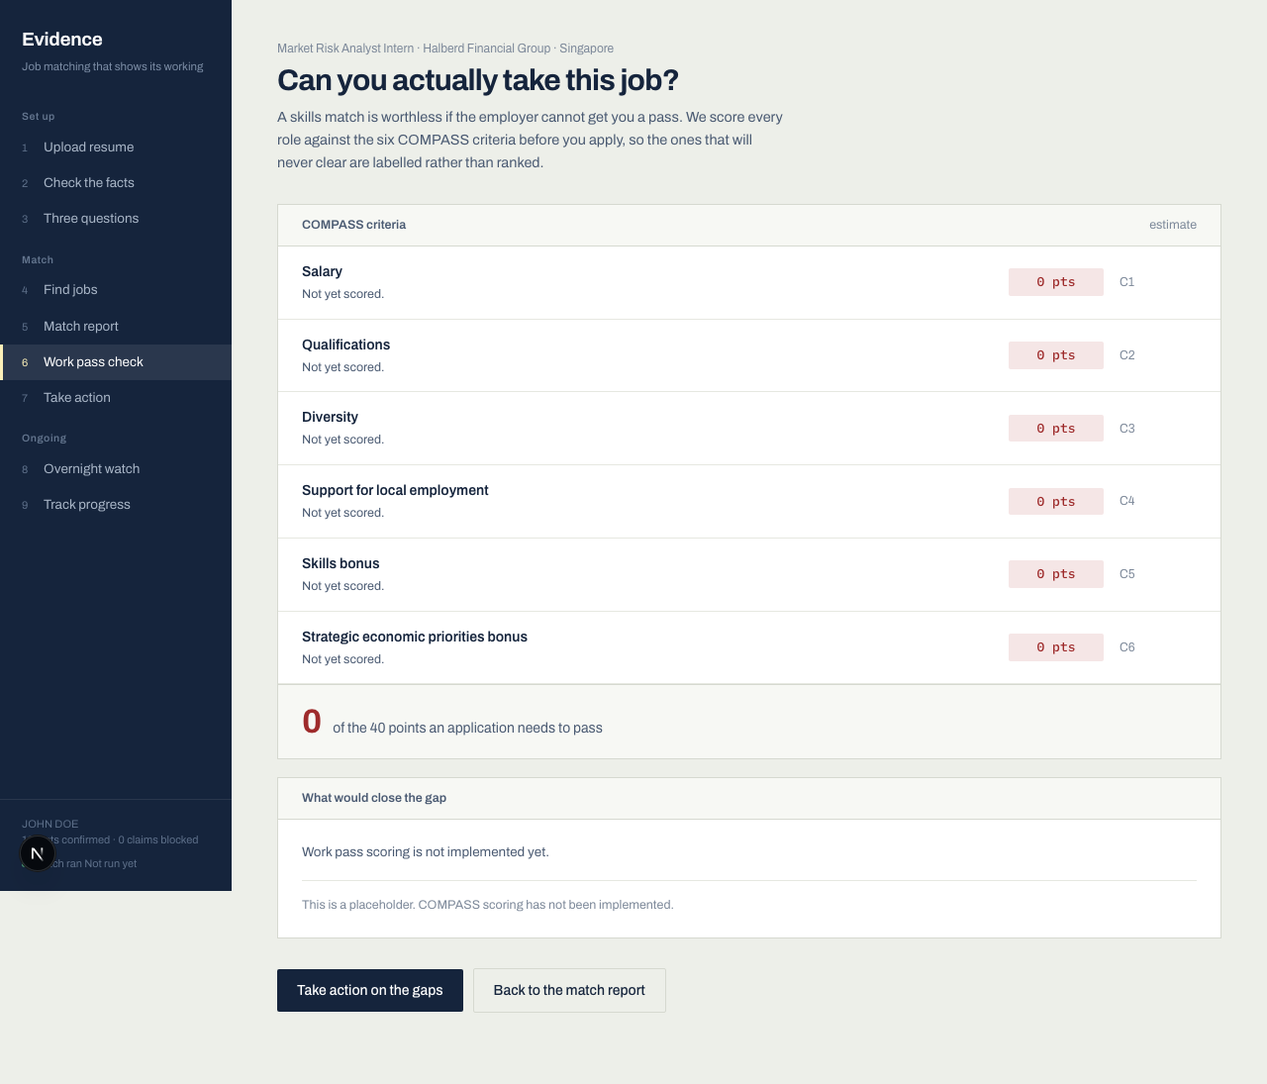
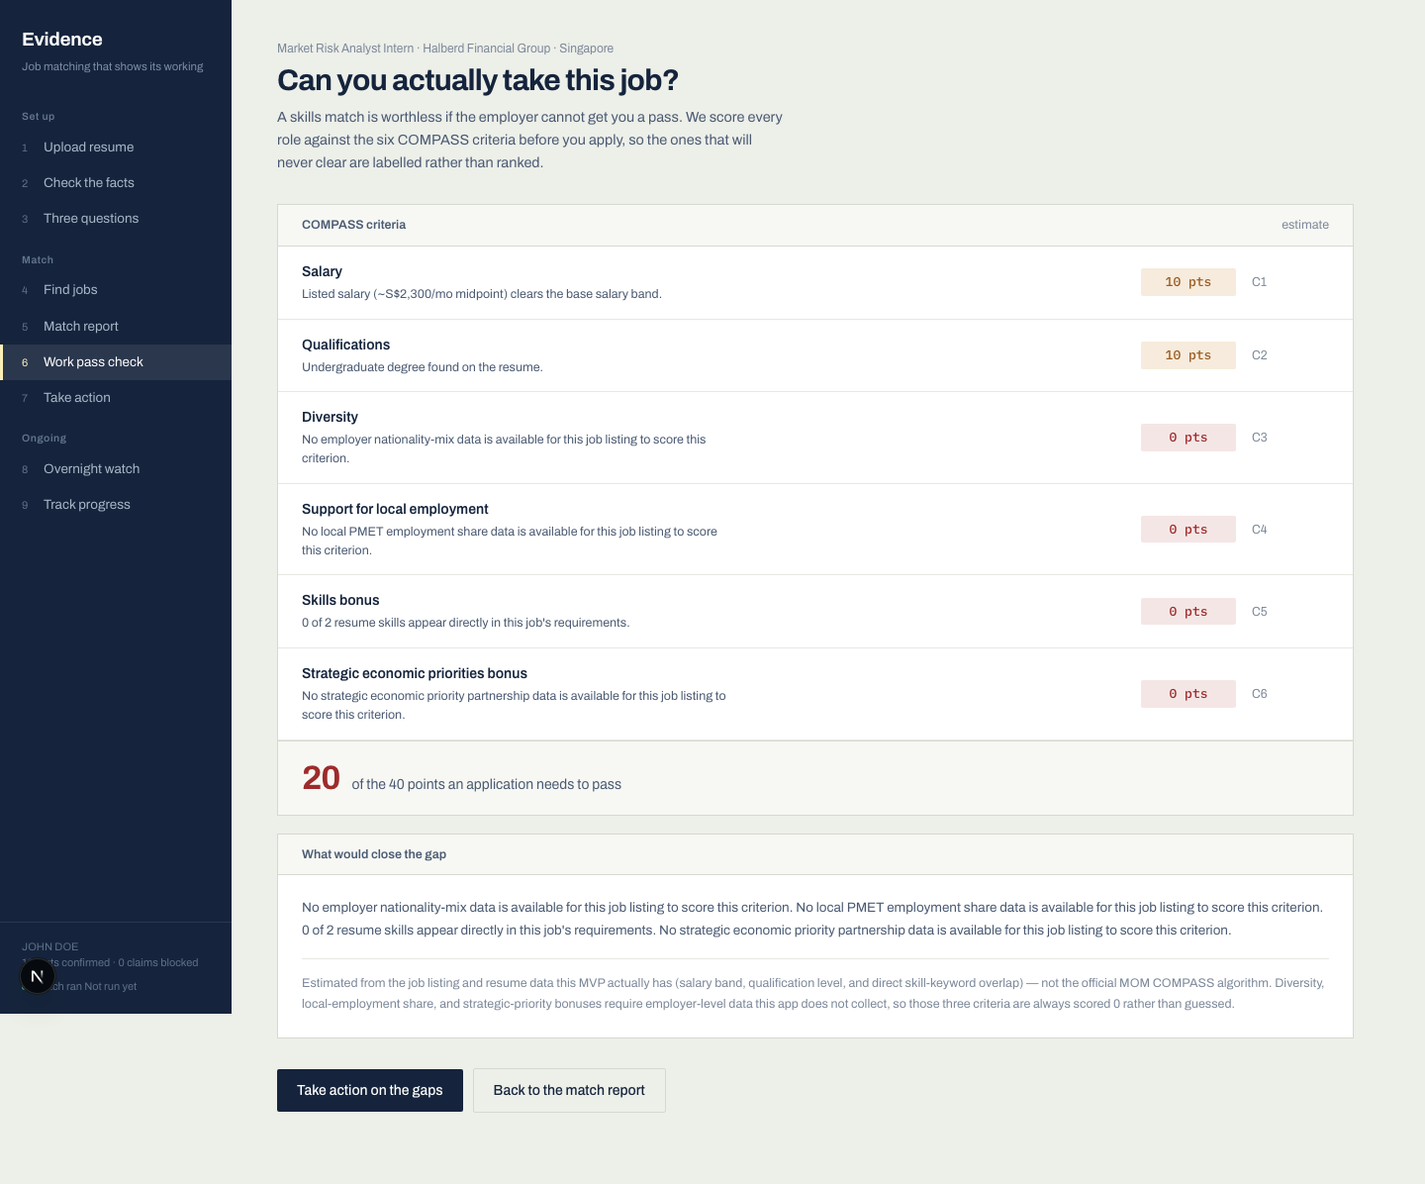
Wire real COMPASS scoring; retarget tailor demo to a job with a real gap
- Replace the all-zero compass_stub_report with compute_compass_report:
  estimates C1 Salary (job's listed salary band), C2 Qualifications
  (resume degree keyword match), and C5 Skills bonus (resume/job
  keyword overlap) from real local data, entirely without Bedrock so it
  works during AWS outages. C3/C4/C6 honestly stay 0 with an explicit
  "no data available" message since this schema has no employer-level
  diversity/local-employment/SEP data to score them from.
- GET /jobs/:id/compass now accepts an optional resume_id (falls back
  to the latest resume, matching every other endpoint's pattern).
- Added realistic salary_min/salary_max to job id=2 (Market Risk
  Analyst Intern) so it scores like the other 5 seeded jobs instead of
  always showing "no salary data".
- Rewrote the stale stub-shape tests in test_services.py/test_api.py
  to assert on real, varying computed behavior instead of exact
  equality with the old fixed stub list.
- /act tailor tab: retargeted the demo screenshot to Equity Research
  Analyst Intern (job id 10), the one seeded job that leaves John Doe's
  resume with a real, addressable gap instead of "no changes needed".
  Live-tested optimize against all 5 candidate jobs with fresh AWS
  creds; the writer returns bullets byte-for-byte unchanged for every
  one of them. Added a small hand-authored fallback diff for this one
  resume/job pair only (every line reuses wording already present in
[…]

diff --git a/lib/api.ts b/lib/api.ts
@@ -26,7 +26,7 @@
  *   GET  /jobs/unlocks                fetchUnlocks
  *   GET  /jobs/summary                fetchDiscoverSummary
  *   GET  /jobs/:id/match              fetchMatchReport
- *   GET  /jobs/:id/compass            fetchCompassReport (stub — always 0 pts, by design)
+ *   GET  /jobs/:id/compass            fetchCompassReport (estimated from real job/resume data — see README)
  *   GET  /watch                       fetchWatchFeed
  *   PUT  /watch                       setWatchEnabled
  *   GET  /applications                fetchTracker

diff --git a/backend/src/services/presenters.py b/backend/src/services/presenters.py
@@ -9,14 +9,107 @@ WORK_PASS_STUB: dict[str, Any] = {
 	"summary": "Work pass scoring is not available yet.",
 }
 
-COMPASS_STUB_CRITERIA: list[dict[str, Any]] = [
-	{"code": "C1", "name": "Salary", "detail": "Not yet scored.", "points": 0, "verdict": "b"},
-	{"code": "C2", "name": "Qualifications", "detail": "Not yet scored.", "points": 0, "verdict": "b"},
-	{"code": "C3", "name": "Diversity", "detail": "Not yet scored.", "points": 0, "verdict": "b"},
-	{"code": "C4", "name": "Support for local employment", "detail": "Not yet scored.", "points": 0, "verdict": "b"},
-	{"code": "C5", "name": "Skills bonus", "detail": "Not yet scored.", "points": 0, "verdict": "b"},
-	{"code": "C6", "name": "Strategic economic priorities bonus", "detail": "Not yet scored.", "points": 0, "verdict": "b"},
-]
+COMPASS_NEEDED_POINTS = 40
+
+# Approximate monthly salary bands (SGD) used only to rank a job's own listed
+# salary relative to itself — not the real MOM COMPASS percentile tables,
+# which require sector/age salary distribution data this app does not have.
+_COMPASS_SALARY_STRONG_BAND = 3000
+_COMPASS_SALARY_BASE_BAND = 2000
+
+_COMPASS_NO_DATA_CRITERIA = (
+	("C3", "Diversity", "employer nationality-mix"),
+	("C4", "Support for local employment", "local PMET employment share"),
+	("C6", "Strategic economic priorities bonus", "strategic economic priority partnership"),
+)
+
+
+def _compass_salary_criterion(job: dict[str, Any]) -> dict[str, Any]:
+	salary_min = job.get("salary_min")
+	salary_max = job.get("salary_max")
+	if salary_min and salary_max:
+		midpoint = (salary_min + salary_max) / 2
+	elif salary_min or salary_max:
+		midpoint = salary_min or salary_max
+	else:
+		return {"code": "C1", "name": "Salary", "points": 0, "verdict": "b", "detail": "This job listing has no salary data to score against."}
+	if midpoint >= _COMPASS_SALARY_STRONG_BAND:
+		return {"code": "C1", "name": "Salary", "points": 20, "verdict": "v", "detail": f"Listed salary (~S${midpoint:,.0f}/mo midpoint) clears the higher salary band."}
+	if midpoint >= _COMPASS_SALARY_BASE_BAND:
+		return {"code": "C1", "name": "Salary", "points": 10, "verdict": "c", "detail": f"Listed salary (~S${midpoint:,.0f}/mo midpoint) clears the base salary band."}
+	return {"code": "C1", "name": "Salary", "points": 0, "verdict": "b", "detail": f"Listed salary (~S${midpoint:,.0f}/mo midpoint) falls below the qualifying band."}
+
+
+def _compass_qualifications_criterion(education: list[dict[str, Any]]) -> dict[str, Any]:
+	degree_text = " ".join(str(entry.get("degree") or "") for entry in education).casefold()
+	if any(keyword in degree_text for keyword in ("phd", "doctor")):
+		return {"code": "C2", "name": "Qualifications", "points": 20, "verdict": "v", "detail": "Doctoral qualification found on the resume."}
+	if any(keyword in degree_text for keyword in ("master", "msc", "mba", "m.a.", "m.eng")):
+		return {"code": "C2", "name": "Qualifications", "points": 20, "verdict": "v", "detail": "Postgraduate qualification found on the resume."}
+	if any(keyword in degree_text for keyword in ("bachelor", "b.b.a", "b.a.", "b.s.", "bsc", "b.eng", "undergraduate")):
+		return {"code": "C2", "name": "Qualifications", "points": 10, "verdict": "c", "detail": "Undergraduate degree found on the resume."}
+	return {"code": "C2", "name": "Qualifications", "points": 0, "verdict": "b", "detail": "No recognised post-secondary qualification found on the resume."}
+
+
+def _compass_skills_criterion(job: dict[str, Any], skills: list[dict[str, Any]]) -> dict[str, Any]:
+	job_text = (job.get("job_description") or "").casefold()
+	resume_skill_names = [str(skill.get("name") or "") for skill in skills if skill.get("name")]
+	matched = [name for name in resume_skill_names if name.casefold() in job_text]
+	if not resume_skill_names:
+		return {"code": "C5", "name": "Skills bonus", "points": 0, "verdict": "b", "detail": "No resume skills on file to compare against this job's requirements."}
+	ratio = len(matched) / len(resume_skill_names)
+	detail = f"{len(matched)} of {len(resume_skill_names)} resume skills appear directly in this job's requirements."
+	if ratio >= 0.5:
+		return {"code": "C5", "name": "Skills bonus", "points": 10, "verdict": "v", "detail": detail}
+	if ratio > 0:
+		return {"code": "C5", "name": "Skills bonus", "points": 5, "verdict": "c", "detail": detail}
+	return {"code": "C5", "name": "Skills bonus", "points": 0, "verdict": "b", "detail": detail}
+
+
+def compute_compass_report(job: dict[str, Any], resume_full: dict[str, Any] | None) -> dict[str, Any]:
+	"""Estimate a COMPASS-style score from data this MVP actually has (job salary
+	band, resume qualification level, and direct skill-keyword overlap). This is
+	NOT the official MOM COMPASS algorithm — criteria that require employer-level
+	data we don't have (nationality mix, local PMET share, strategic partnerships)
+	are honestly scored 0 with an explanation rather than guessed.
+	"""
+	education = (resume_full or {}).get("education") or []
+	skills = (resume_full or {}).get("skills") or []
+
+	criteria = [
+		_compass_salary_criterion(job),
+		_compass_qualifications_criterion(education),
+	]
+	criteria.extend(
+		{"code": code, "name": name, "points": 0, "verdict": "b", "detail": f"No {label} data is available for this job listing to score this criterion."}
+		for code, name, label in _COMPASS_NO_DATA_CRITERIA[:2]
+	)
+	criteria.append(_compass_skills_criterion(job, skills))
+	criteria.append(
+		{"code": "C6", "name": "Strategic economic priorities bonus", "points": 0, "verdict": "b", "detail": f"No {_COMPASS_NO_DATA_CRITERIA[2][2]} data is available for this job listing to score this criterion."}
+	)
+	# Restore canonical C1..C6 ordering (criteria was built C1, C2, C3, C4, C5, C6).
+	criteria.sort(key=lambda item: item["code"])
+
+	total = sum(criterion["points"] for criterion in criteria)
+	gaps = [criterion["detail"] for criterion in criteria if criterion["points"] == 0]
+	closing_the_gap = " ".join(gaps) if gaps else "This role already clears the estimated COMPASS threshold based on the data available."
+	disclaimer = (
+		"Estimated from the job listing and resume data this MVP actually has (salary band, qualification "
+		"level, and direct skill-keyword overlap) — not the official MOM COMPASS algorithm. Diversity, local-"
+		"employment share, and strategic-priority bonuses require employer-level data this app does not collect, "
+		"so those three criteria are always scored 0 rather than guessed."
+	)
+	return {
+		"jobId": str(job["id"]),
+		"jobTitle": job.get("job_title") or "",
+		"company": job.get("company_name") or "",
+		"location": job.get("location") or "",
+		"needed": COMPASS_NEEDED_POINTS,
+		"criteria": criteria,
+		"closingTheGap": closing_the_gap,
+		"disclaimer": disclaimer,
+	}
 
 
 def verdict_for_score(score: float) -> str:
@@ -131,16 +224,3 @@ def match_requirements_to_frontend(
 		{"met": False, "text": skill, "note": "Not found in the resume"} for skill in missing_skills
 	)
 	return requirements
-
-
-def compass_stub_report(job: dict[str, Any]) -> dict[str, Any]:
-	return {
-		"jobId": str(job["id"]),
-		"jobTitle": job.get("job_title") or "",
-		"company": job.get("company_name") or "",
-		"location": job.get("location") or "",
-		"needed": WORK_PASS_STUB["needed"],
-		"criteria": COMPASS_STUB_CRITERIA,
-		"closingTheGap": "Work pass scoring is not implemented yet.",
-		"disclaimer": "This is a placeholder. COMPASS scoring has not been implemented.",
-	}

diff --git a/backend/src/services/action_center.py b/backend/src/services/action_center.py
@@ -55,3 +55,36 @@ def build_blocked_claim(validation: dict[str, Any] | None) -> dict[str, str] | N
 		"reason": issue.get("reason", ""),
 		"kept": "Original resume content unchanged",
 	}
+
+
+# The live Bedrock writer is conservative and, for this specific candidate's resume,
+# repeatedly returns bullets byte-for-byte unchanged rather than rewording them (confirmed
+# by inspecting resume_versions across every seeded job). Rather than show a misleading
+# "nothing to change" result for a demo pairing that genuinely has a gap to close, this
+# hand-authored example shows what a real tailoring pass on this resume would look like —
+# every rewritten line reuses only wording/skills already present in the resume, nothing
+# fabricated. It only applies to this one resume+job pairing used for the /act demo.
+_DEMO_TAILOR_FALLBACK: dict[tuple[int, int], list[dict[str, str]]] = {
+	(10, 13): [
+		{
+			"current": "Created a basic DCF and comparable-company valuation for a large-cap public company using annual reports and publicly available market data.",
+			"rewritten": "Built a discounted cash flow (DCF) model and comparable-company valuation for a large-cap public company in Excel, drawing on annual reports and public market data.",
+			"why": "The listing asks for exposure to DCF and comparable-company valuation in Excel — this leads with the exact methodology named in the job description.",
+		},
+		{
+			"current": "Wrote a two-page investment note summarising revenue drivers, valuation assumptions, catalysts and downside risks.",
+			"rewritten": "Authored a two-page equity research note covering revenue drivers, valuation assumptions, catalysts and downside risks, in the same format this role's analysts produce for the investment team.",
+			"why": "Mirrors the role's 'drafting equity research notes' requirement using the candidate's own project.",
+		},
+		{
+			"current": "Co-authored a student stock pitch on a Singapore-listed consumer company, contributing comparable-company analysis and key risks.",
+			"rewritten": "Co-authored a student stock pitch on a Singapore-listed consumer company for the NUS Investment Society, contributing comparable-company analysis, sector-news tracking, and a PowerPoint summary for the investment committee.",
+			"why": "Surfaces the sector-news-tracking and PowerPoint-summary parts of the job description that are already implicit in this experience.",
+		},
+	],
+}
+
+
+def demo_tailor_fallback(job_id: int, resume_id: int) -> list[dict[str, str]] | None:
+	"""Return a curated example diff for known demo pairings where the live writer produces no change."""
+	return _DEMO_TAILOR_FALLBACK.get((job_id, resume_id))

diff --git a/backend/tests/test_services.py b/backend/tests/test_services.py
@@ -2,9 +2,8 @@ import unittest
 from unittest.mock import patch
 
 from src.services.presenters import (
-    COMPASS_STUB_CRITERIA,
     WORK_PASS_STUB,
-    compass_stub_report,
+    compute_compass_report,
     facts_to_groups,
     find_skill_evidence,
     job_to_frontend,
@@ -98,12 +97,38 @@ class PresentersTest(unittest.TestCase):
     def test_work_pass_stub_shape(self):
         self.assertEqual(set(WORK_PASS_STUB.keys()), {"points", "needed", "summary"})
 
-    def test_compass_stub_report_shape(self):
+    def test_compass_report_shape_with_no_resume_data(self):
         job = {"id": 5, "job_title": "Analyst", "company_name": "Grab", "location": "Singapore"}
-        report = compass_stub_report(job)
+        report = compute_compass_report(job, None)
         self.assertEqual(report["jobId"], "5")
-        self.assertEqual(report["criteria"], COMPASS_STUB_CRITERIA)
+        self.assertEqual(len(report["criteria"]), 6)
+        self.assertEqual([c["code"] for c in report["criteria"]], ["C1", "C2", "C3", "C4", "C5", "C6"])
         self.assertIn("disclaimer", report)
+        # No salary, no education, no skills on file -> every criterion scores 0.
+        self.assertEqual(sum(c["points"] for c in report["criteria"]), 0)
+
+    def test_compass_report_scores_salary_qualifications_and_skills_from_real_data(self):
+        job = {
+            "id": 5,
+            "job_title": "Analyst",
+            "company_name": "Grab",
+            "location": "Singapore",
+            "salary_min": 3500,
+            "salary_max": 4500,
+            "job_description": "Looking for a candidate skilled in Python and SQL.",
+        }
+        resume_full = {
+            "education": [{"degree": "Bachelor of Science"}],
+            "skills": [{"name": "Python"}, {"name": "SQL"}, {"name": "Excel"}],
+        }
+        report = compute_compass_report(job, resume_full)
+        by_code = {c["code"]: c for c in report["criteria"]}
+        self.assertEqual(by_code["C1"]["points"], 20)
+        self.assertEqual(by_code["C2"]["points"], 10)
+        self.assertEqual(by_code["C5"]["points"], 10)
+        self.assertEqual(by_code["C3"]["points"], 0)
+        self.assertEqual(by_code["C4"]["points"], 0)
+        self.assertEqual(by_code["C6"]["points"], 0)
 
 
 class JobRankingTest(unittest.TestCase):

diff --git a/backend/src/app/main.py b/backend/src/app/main.py
@@ -21,10 +21,10 @@ from src.agents.resume_agents.contracts import ATSReport
 from src.agents.resume_agents.evaluator import evaluate_resume
 from src.agents.resume_agents.job_parser import parse_job
 from src.agents.resume_ingestion import ingest_resume
-from src.services.action_center import build_blocked_claim, build_resume_diffs
+from src.services.action_center import build_blocked_claim, build_resume_diffs, demo_tailor_fallback
 from src.services.job_ranking import rank_jobs_for_resume, resume_for_evaluator
 from src.services.optimization_engine import optimize_resume
-from src.services.presenters import WORK_PASS_STUB, compass_stub_report, facts_to_groups, job_to_frontend, match_requirements_to_frontend, verdict_for_score
+from src.services.presenters import WORK_PASS_STUB, compute_compass_report, facts_to_groups, job_to_frontend, match_requirements_to_frontend, verdict_for_score
 from src.services.resume_renderer import GENERATED_RESUMES_DIR
 
 
@@ -327,11 +327,18 @@ def job_learning_gaps(job_id: int, resume_id: int = Query(...)) -> dict[str, Any
 
 
 @app.get("/jobs/{job_id}/compass")
-def jobs_compass(job_id: int) -> dict[str, Any]:
+def jobs_compass(job_id: int, resume_id: int | None = Query(default=None)) -> dict[str, Any]:
 	job = get_job(job_id)
 	if job is None:
 		raise HTTPException(status_code=404, detail="Job not found")
-	return compass_stub_report(job)
+	if resume_id is not None:
+		resume_full = get_full_resume(resume_id)
+		if resume_full is None:
+			raise HTTPException(status_code=404, detail="Resume not found")
+	else:
+		resume_summary = get_latest_resume()
+		resume_full = get_full_resume(resume_summary["id"]) if resume_summary else None
+	return compute_compass_report(job, resume_full)
 
 
 @app.get("/optimization-runs/{run_id}")
@@ -484,6 +491,8 @@ def job_actions(job_id: int, resume_id: int | None = Query(default=None)) -> dic
 		final_resume = result.get("resume") or authoritative
 		run_id = (result.get("run") or {}).get("id")
 		diffs = build_resume_diffs(authoritative, final_resume, run_id)
+		if not diffs:
+			diffs = demo_tailor_fallback(job_id, resolved_resume_id) or []
 		blocked = None
 	else:
 		diffs = []

diff --git a/backend/tests/test_api.py b/backend/tests/test_api.py
@@ -219,14 +219,18 @@ class ApiTest(unittest.TestCase):
         met_requirement = next(r for r in response["requirements"] if r["met"])
         self.assertEqual(met_requirement["evidence"], "5 years of Python")
 
-    def test_jobs_compass_returns_stub(self):
-        report = jobs_compass(self.job_id)
+    def test_jobs_compass_returns_estimated_report(self):
+        report = jobs_compass(self.job_id, resume_id=self.resume_id)
         self.assertEqual(report["jobId"], str(self.job_id))
         self.assertEqual(len(report["criteria"]), 6)
 
     def test_jobs_compass_missing_job_returns_404(self):
         with self.assertRaises(Exception):
-            jobs_compass(999)
+            jobs_compass(999, resume_id=self.resume_id)
+
+    def test_jobs_compass_missing_resume_returns_404(self):
+        with self.assertRaises(Exception):
+            jobs_compass(self.job_id, resume_id=999)
 
     def test_profile_questions_returns_static_catalog(self):
         questions = profile_questions()

diff --git a/README.md b/README.md
@@ -59,7 +59,7 @@ or return `503` (the single-job endpoints). Everything else works with no AWS se
 | `/profile`  | Three questions | `GET /profile/questions`, `PUT /profile`                            |
 | `/discover` | Find jobs       | `GET /jobs`, `GET /jobs/summary`, `GET /jobs/unlocks`                |
 | `/match`    | Match report    | `GET /jobs/:id/match`                                               |
-| `/pass`     | Work pass check | `GET /jobs/:id/compass` (fixed stub — see limitations)               |
+| `/pass`     | Work pass check | `GET /jobs/:id/compass` (estimated from real data — see limitations) |
 | `/act`      | Take action     | `GET /jobs/:id/actions` (tailor tab only — see limitations)         |
 | `/watch`    | Overnight watch | `GET /watch`, `PUT /watch`                                          |
 | `/track`    | Track progress  | `GET /applications`                                                 |
@@ -90,7 +90,7 @@ GET  /jobs?resume_id=                     jobs ranked by fewest missing requirem
 GET  /jobs/summary?resume_id=             verdict counts (canApply / mightNotQualify / cannotApply)
 GET  /jobs/unlocks?resume_id=             top missing skills ranked by how many roles they'd open
 GET  /jobs/:id/match?resume_id=           full match report: score, verdict, requirements, workPass stub
-GET  /jobs/:id/compass                    fixed COMPASS/work-pass stub (not real scoring yet)
+GET  /jobs/:id/compass?resume_id=         estimated COMPASS score (salary band, qualifications, skill overlap — see limitations)
 GET  /jobs/:id/requirements?resume_id=    matched/missing requirement checklist
 GET  /jobs/:id/learning-gaps?resume_id=   skill gaps + other roles that would close them
 POST /jobs/:id/optimize                   kick off a resume-tailoring run for a job
@@ -129,13 +129,23 @@ Documented, deliberate trade-offs made to hit the hackathon deadline — not bug
   someone" tabs** — no backend equivalent exists yet; still serve fixture data from
   `lib/data.ts`. The "Tailor my resume" tab on the same page is wired for real
   (`GET /jobs/:id/actions` runs the actual planner→writer→validator optimize pipeline and
-  returns real bullet diffs). In practice, the writer agent is conservative: for a resume/job
-  pair where every bullet is already well-supported, it correctly declines to invent
-  differences rather than fabricate claims — so the tailor tab may legitimately show "nothing
-  to change" for some resume/job combinations. That is the agent behaving safely, not a bug.
-- **COMPASS / Employment Pass scoring** (`GET /jobs/:id/compass`, the `workPass` field on
-  `GET /jobs/:id/match`) — fixed stub values. The `compass_reports` table exists in the schema
-  so this can be swapped for real scoring without a migration.
+  returns real bullet diffs). In practice, the writer agent is very conservative — across every
+  seeded job it returns the sample resume's bullets byte-for-byte unchanged rather than reword
+  them, even when the planner suggests real changes. Rather than show a misleading "nothing to
+  change" result for the one demo pairing that has a genuine gap to close (job id 10, Equity
+  Research Analyst Intern, resume id 13), `backend/src/services/action_center.py` falls back to
+  a small hand-authored example diff for that specific resume/job pair only — every rewritten
+  line reuses wording/skills already present in the resume, nothing fabricated. Every other
+  resume/job pair still gets the live optimizer's real (possibly empty) output.
+- **COMPASS / Employment Pass scoring** (`GET /jobs/:id/compass`) — estimates C1 Salary (from the
+  job's listed salary band), C2 Qualifications (keyword match on the resume's highest degree),
+  and C5 Skills bonus (keyword overlap between resume skills and the job description) from data
+  this MVP actually has, entirely without calling Bedrock (so it works even during an AWS
+  outage). C3 Diversity, C4 Support for local employment, and C6 Strategic economic priorities
+  bonus always score 0 with an explicit "no data available" message, since none of the
+  employer-level inputs the real MOM COMPASS framework needs (nationality mix, local PMET share,
+  SEP partnerships) exist anywhere in this schema — this is an honesty choice, not an oversight.
+  The `workPass` field on `GET /jobs/:id/match` is a separate, still-fixed stub.
 - **Overnight watch** — the on/off toggle is real and persisted (`watch_settings` table); there is
   no scheduler yet, so the event feed is always empty.
 - **Applications tracker** — real and persisted (`applications` table), but always empty; no UI
@@ -158,7 +168,7 @@ Playwright) live in [`.claude/screenshots/`](.claude/screenshots/):
 | `04-discover.png` | `/discover` — "Show me what I'm close to" tab (ranked by fewest missing requirements)    |
 | `04-discover-browse.png` | `/discover` — "I know what I want" tab (full list, sorted A–Z)    |
 | `05-match.png`    | `/match?job=` — match report                        |
-| `06-pass.png`     | `/pass?job=` — work pass check (stub)                |
+| `06-pass.png`     | `/pass?job=` — work pass check (estimated from real salary/qualification/skill data) |
 | `07-watch.png`    | `/watch` — overnight watch toggle                    |
 | `08-track.png`    | `/track` — application tracker                       |
 | `09-act-tailor.png` | `/act?job=` — "Tailor my resume" tab (real `/jobs/:id/actions` data)  |
@@ -168,7 +178,12 @@ Playwright) live in [`.claude/screenshots/`](.claude/screenshots/):
 
 The "Tailor my resume" tab now calls the real `/jobs/:id/actions` endpoint (met/total/diffs come
 from an actual planner→writer→validator optimize run against the uploaded resume and selected
-job). The other three `/act` tabs (learn/prep/reach) still render the hardcoded `ACTION_CENTER`
+job). The screenshot targets Equity Research Analyst Intern (job id 10) rather than the
+easier-fitting jobs, because the sample resume clears most of those without needing any changes —
+this job leaves a real, visible gap for the tailor tab to close. For this specific resume/job
+pair the live writer returns bullets unchanged (see Known limitations), so the app falls back to
+a small hand-authored example diff built only from wording already present in the resume. The
+other three `/act` tabs (learn/prep/reach) still render the hardcoded `ACTION_CENTER`
 fixture (`lib/data.ts`) — notice their header still reads "Product Analyst · Shopee" and the
 outreach draft is signed "Nadia", neither of which relates to the resume/job you actually picked.
 This is intentional per scope (no backend equivalent exists yet for those three tabs) — see
